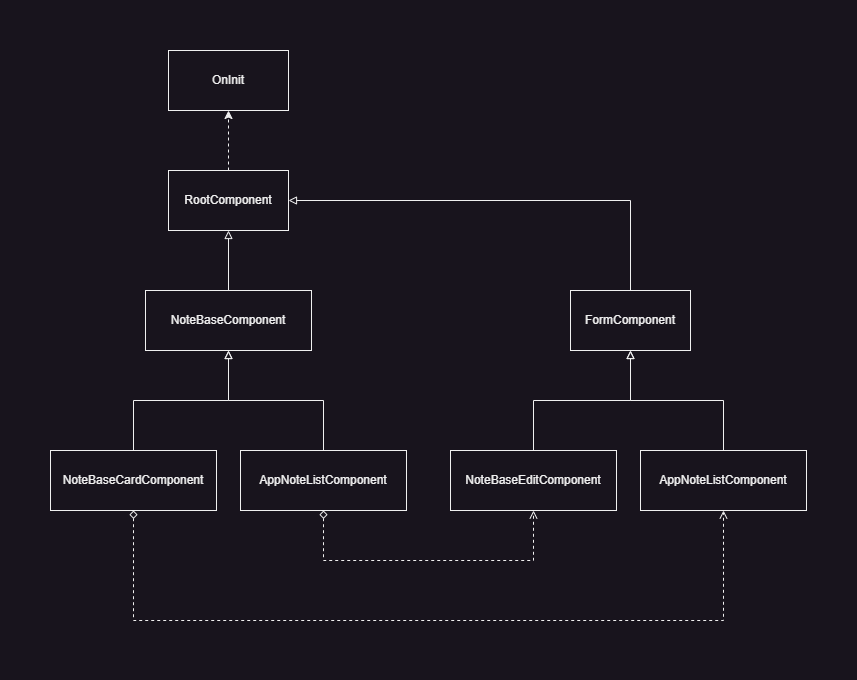
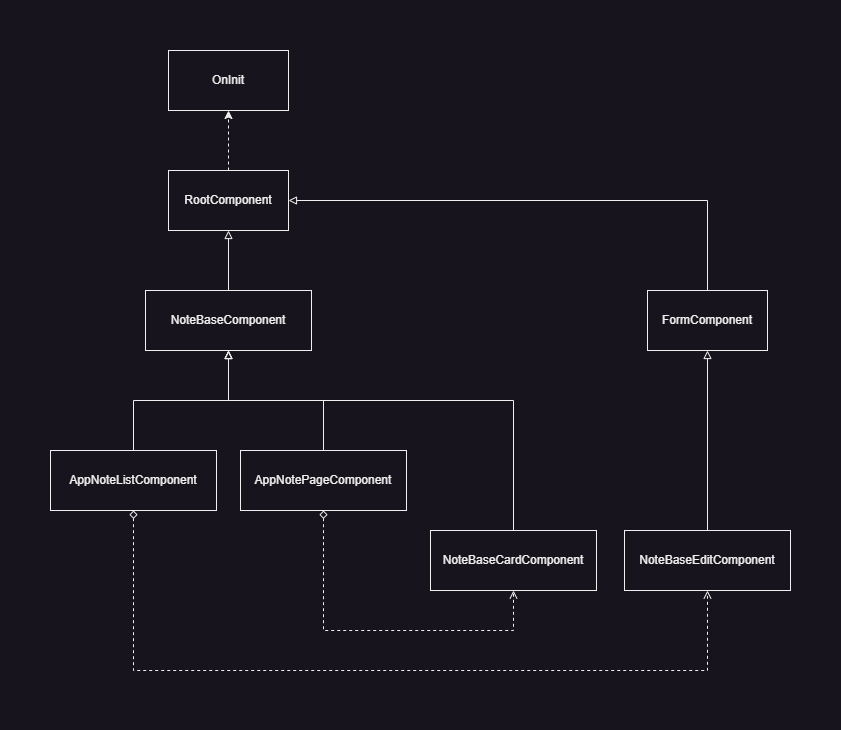
[修改] 更新讀我檔案

diff --git a/README.md b/README.md
@@ -71,16 +71,31 @@ app.sweetmochi.tw
 └── styles.less 樣式表
 ```
 
-## 基礎邏輯
+## 底層配置
+
+![image info](./public/readme/root-service.png)
+
+### 概要
++ `HttpService` 需要 `WidgetService` 來顯示連線錯誤提醒
++ `HttpService` 封裝 `HttpClient` 後端回傳的資料格式
++ `RootService` 調用 `HttpClient` 寫入其他接口的互動方法
++ `AppComponent` 或其他元件繼承 `RootComponent` 所有功能
++ `YoutubeService` 或其他服務繼承 `RootService` 所有功能
+
+## 功能邏輯
 
 ![image info](./public/readme/site-map.png)
 
-+ root.component 實作 angular init，並且加入通用 service，使繼承的功能可以使用 super 調用 root.component 定義的方法
-+ form.component 以 root.component 為基礎，增加 FormBuilder 的功能
-+ note-base.component 作為記事本功能的抽象繼承，除了 root.component 功能也額外增加筆記本路由方法
+### 概要
++ `RootComponent` 實作 `angular init`，並且加入通用 service，使繼承的功能可以使用 super 調用 RootComponent 定義的方法
++ `FormComponent` 以 `RootComponent` 為基礎，增加 `FormBuilder` 的功能
++ `NoteBaseComponent` 作為記事本功能的抽象繼承，除了 `RootComponent` 功能也額外增加筆記本路由方法
 
-## Development server
+### 元件設計
++ `NoteBaseCard` 為筆記卡牌顯示元件，提供筆記本列表顯示卡牌效果，有繼承 `NoteBaseComponent` 跳轉頁面功能
++ `NoteBaseEdit` 是筆記編輯或新增卡牌的元件，繼承 `FormComponent` 表單驗證的功能
 
-This project was generated using [Angular CLI](https://github.com/angular/angular-cli) version 19.0.1.
+### 頁面功能
++ `AppNoteList` 做為筆記本列表頁面，繼承 `NoteBaseComponent` 跳轉頁面方法，並且擁有 `NoteBaseCardComponent` 用來顯示卡牌資料
++ `AppNotePage` 是單獨的筆記本頁面，可以編輯指定的記事本資料，或是新增全新的筆記，同樣繼承 `NoteBaseComponent` 頁面跳轉的方法，並且擁有 `NoteBaseEditComponent` 可以用來編輯或新增卡牌資料
 
-Once the server is running, open your browser and navigate to `http://localhost:4200/`. The application will automatically reload whenever you modify any of the source files.
